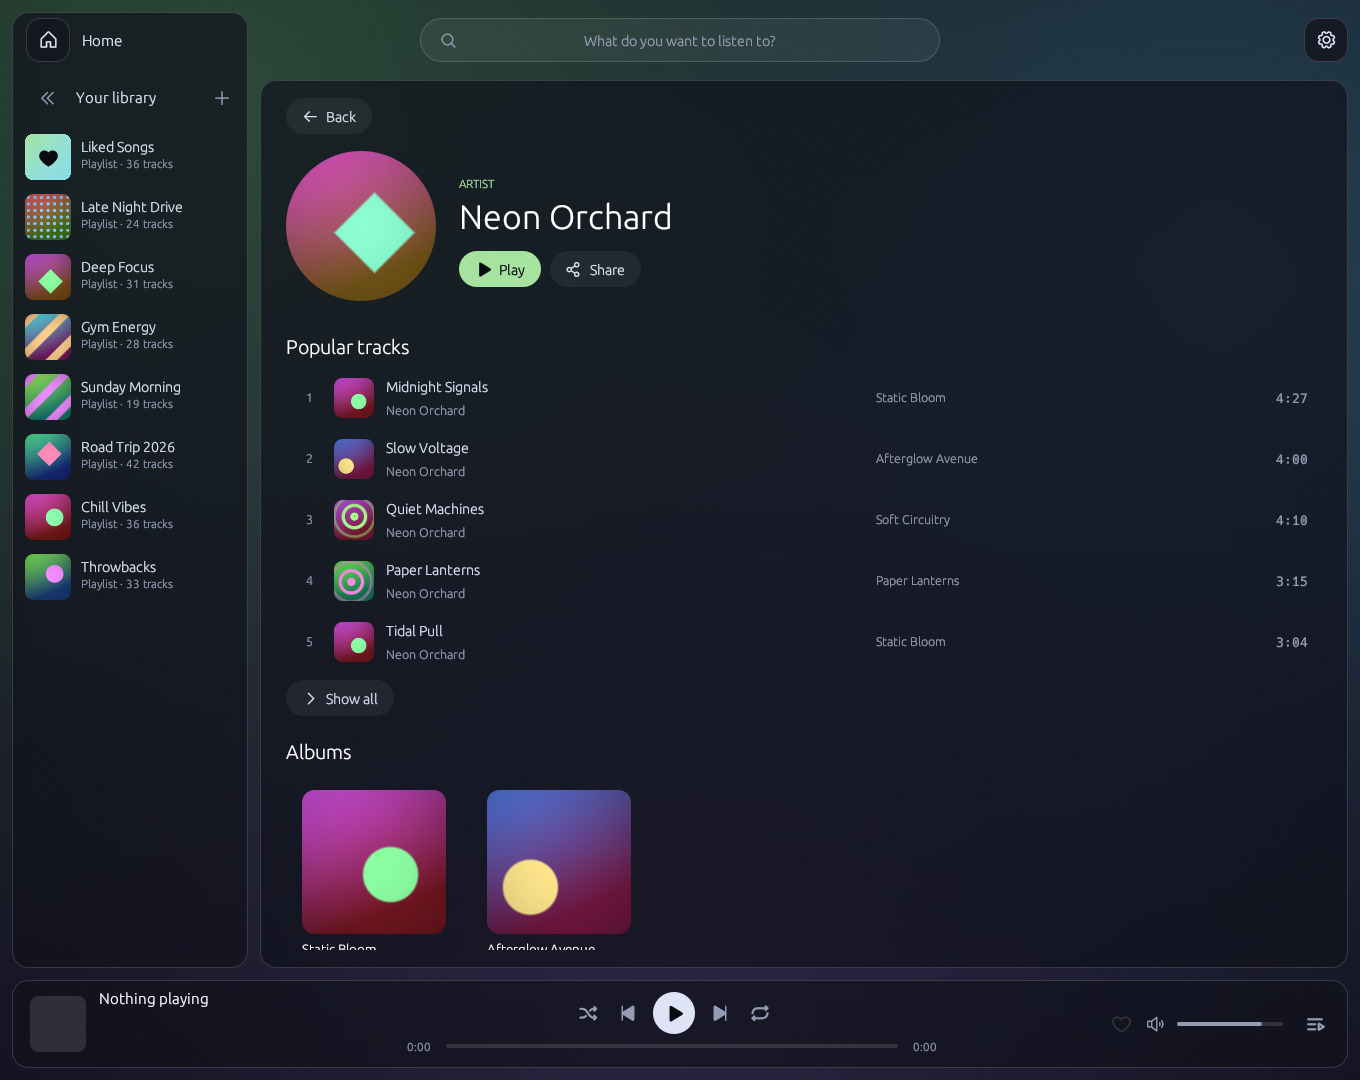
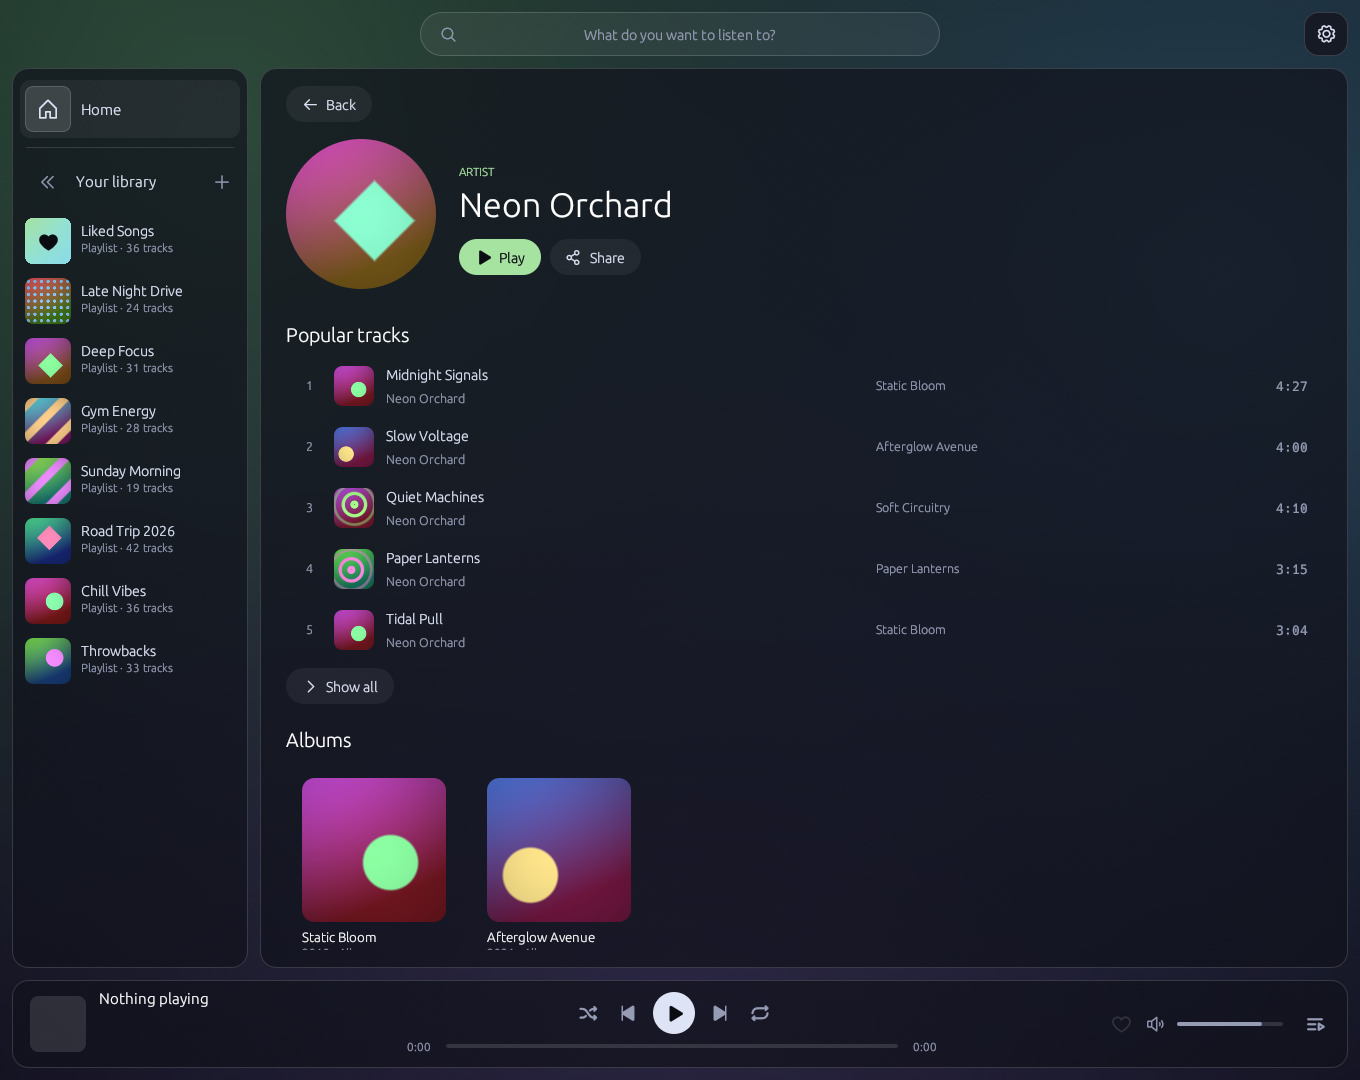
Undo the library reaching up to the header: home button back in the library, header at 44 px; new screenshots

diff --git a/src/app.rs b/src/app.rs
@@ -1704,8 +1704,8 @@ impl App {
         // Two equal rounded squares at the ends of the bar. The home button is only
         // up here in the full-screen player; otherwise it lives in the library.
         let size = egui::vec2(HEADER_HEIGHT, HEADER_HEIGHT);
-        let home_tile = egui::Rect::from_center_size(egui::pos2(rect.left() + size.x / 2.0, rect.center().y), size);
-        let settings_tile = egui::Rect::from_center_size(egui::pos2(rect.right() - size.x / 2.0, rect.center().y), size);
+        let home_tile = egui::Rect::from_min_size(rect.left_top(), size);
+        let settings_tile = egui::Rect::from_min_size(egui::pos2(rect.right() - size.x, rect.top()), size);
 
         if self.user.is_some() && full {
             let home = ui.interact(home_tile, egui::Id::new("home_button"), egui::Sense::click());
@@ -1721,13 +1721,8 @@ impl App {
         }
 
         // centre: search
-        let width = (ui.ctx().screen_rect().width() * 0.42).clamp(300.0, 520.0).min((rect.width() - 2.0 * (HEADER_HEIGHT + 24.0)).max(160.0));
-        // centred on the window when there is room, else squeezed between the buttons
-        let window_mid = ui.ctx().screen_rect().center().x;
-        let half = width / 2.0;
-        let mid_x = window_mid.clamp(rect.left() + half + 12.0, (rect.right() - HEADER_HEIGHT - 12.0 - half).max(rect.left() + half + 12.0));
-        let search_center = egui::pos2(mid_x, rect.center().y);
-        let center = egui::Rect::from_center_size(search_center, egui::vec2(width, rect.height()));
+        let width = (rect.width() * 0.42).clamp(300.0, 520.0);
+        let center = egui::Rect::from_center_size(rect.center(), egui::vec2(width, rect.height()));
         let mut mid = ui.new_child(
             egui::UiBuilder::new()
                 .max_rect(center)
@@ -1736,7 +1731,7 @@ impl App {
         // One capsule drawn by hand: egui's own frame is switched off, so the
         // field never shows a second outline when it gets focus.
         let search_id = egui::Id::new("search_field");
-        let field = egui::Rect::from_center_size(search_center, egui::vec2(width, HEADER_HEIGHT));
+        let field = egui::Rect::from_center_size(rect.center(), egui::vec2(width, HEADER_HEIGHT));
         let focused = mid.ctx().memory(|m| m.has_focus(search_id));
         let hovered = mid.rect_contains_pointer(field);
         let border = if focused {
@@ -1901,7 +1896,10 @@ impl App {
         if home_row(ui, at_home, t) {
             self.go_home();
         }
-        ui.add_space(10.0);
+        ui.add_space(2.0);
+        let (line, _) = ui.allocate_exact_size(egui::vec2(ui.available_width(), 1.0), egui::Sense::hover());
+        ui.painter().line_segment([line.left_center() + egui::vec2(6.0, 0.0), line.right_center() - egui::vec2(6.0, 0.0)], egui::Stroke::new(1.0_f32, ui::LINE));
+        ui.add_space(8.0);
 
         // One row of round buttons: the chevron always sits in the middle of the
         // collapsed width (under the home button); "New playlist" and the title
@@ -4415,9 +4413,9 @@ impl eframe::App for App {
             .show(ctx, |ui| {
                 let g = ui::GAP;
                 let screen = ui.max_rect();
-                let mut header = egui::Rect::from_min_max(
+                let header = egui::Rect::from_min_max(
                     screen.min + egui::vec2(g, g),
-                    egui::pos2(screen.right() - g, screen.top() + g + HEADER_BAND),
+                    egui::pos2(screen.right() - g, screen.top() + g + HEADER_HEIGHT),
                 );
                 let player = egui::Rect::from_min_max(
                     egui::pos2(screen.left() + g, screen.bottom() - g - PLAYER_HEIGHT),
@@ -4429,10 +4427,12 @@ impl eframe::App for App {
                     egui::pos2(screen.right() - g, bottom),
                 );
 
-                // The library reaches up to the top of the window: its home button sits where
-                // the header's left end is in the full-screen player, and the header (search,
-                // settings) uses the space to its right.
-                let mut library = None;
+                section(ui, "header", header, None, egui::Vec2::ZERO, |ui| self.header(ui, full));
+                if show_player {
+                    section(ui, "player", player, Some(ui::panel()), egui::vec2(18.0, 10.0), |ui| {
+                        self.player_bar(ui)
+                    });
+                }
                 if logged_in && !full {
                     let t = ui.ctx().animate_bool_with_time_and_easing(
                         egui::Id::new("library_open"),
@@ -4442,20 +4442,9 @@ impl eframe::App for App {
                     );
                     self.sidebar_t = t;
                     let width = LIBRARY_COLLAPSED + (LIBRARY_EXPANDED - LIBRARY_COLLAPSED) * t;
-                    let side = egui::Rect::from_min_max(header.min, egui::pos2(header.left() + width, bottom));
+                    let side = egui::Rect::from_min_size(body.min, egui::vec2(width, body.height()));
+                    section(ui, "library", side, Some(ui::panel()), egui::vec2(8.0, 12.0), |ui| self.library(ui));
                     body.min.x = side.right() + g;
-                    header.min.x = side.right() + g;
-                    library = Some(side);
-                }
-
-                section(ui, "header", header, None, egui::Vec2::ZERO, |ui| self.header(ui, full));
-                if show_player {
-                    section(ui, "player", player, Some(ui::panel()), egui::vec2(18.0, 10.0), |ui| {
-                        self.player_bar(ui)
-                    });
-                }
-                if let Some(side) = library {
-                    section(ui, "library", side, Some(ui::panel()), egui::vec2(8.0, 6.0), |ui| self.library(ui));
                 }
                 if logged_in && self.queue_open && !full {
                     let queue = egui::Rect::from_min_max(egui::pos2(body.right() - QUEUE_WIDTH, body.top()), body.max);
@@ -4515,9 +4504,6 @@ impl eframe::App for App {
 const PLAYER_HEIGHT: f32 = 88.0;
 /// Height of the search capsule and the round header buttons.
 const HEADER_HEIGHT: f32 = 44.0;
-/// The header row: the buttons and the search capsule sit in the middle of it, and the
-/// library's home button below the same line.
-const HEADER_BAND: f32 = 56.0;
 /// Library width with covers only, and with names.
 const LIBRARY_COLLAPSED: f32 = 72.0;
 const LIBRARY_EXPANDED: f32 = 236.0;
@@ -5347,24 +5333,31 @@ fn top_tile(
     ui::paint_icon(painter, tile.center(), icon, size, color, family);
 }
 
-/// The home entry at the top of the library: the same square tile as the header's home button
-/// in the full-screen player, with its name next to it when the library is open.
+/// The home entry at the top of the library: a tile like the covers below it, with its name when open.
 fn home_row(ui: &mut egui::Ui, active: bool, reveal: f32) -> bool {
-    let (rect, resp) = ui.allocate_exact_size(egui::vec2(ui.available_width(), HEADER_HEIGHT), egui::Sense::click());
+    let (rect, resp) = ui.allocate_exact_size(egui::vec2(ui.available_width(), 58.0), egui::Sense::click());
     pointer_on_hover(&resp);
     let resp = if reveal < 0.5 { resp.on_hover_text("Home") } else { resp };
-    let tile_x = ((LIBRARY_COLLAPSED - 16.0 - HEADER_HEIGHT) * 0.5).floor();
-    let tile = egui::Rect::from_min_size(rect.min + egui::vec2(tile_x, 0.0), egui::vec2(HEADER_HEIGHT, HEADER_HEIGHT));
     let hovered = ui.rect_contains_pointer(rect);
+    if active {
+        ui.painter().rect_filled(rect, 10.0, CARD_HOVER);
+    } else if hovered {
+        ui.painter().rect_filled(rect, 10.0, CARD);
+    }
+    let art_x = ((LIBRARY_COLLAPSED - 16.0 - 46.0) * 0.5).floor();
+    let art = egui::Rect::from_min_size(rect.min + egui::vec2(art_x, 6.0), egui::vec2(46.0, 46.0));
+    let fill = if active { ui::with_alpha(accent(), 46) } else { CARD_HOVER };
+    ui.painter().rect_filled(art, 8.0, fill);
+    ui.painter().rect_stroke(art, 8.0, egui::Stroke::new(1.0_f32, if active { ui::with_alpha(accent(), 140) } else { ui::EDGE }), egui::StrokeKind::Inside);
     let (color, family) = if active { (accent(), ui::fill_family()) } else { (ui::TEXT, egui::FontFamily::Proportional) };
-    top_tile(ui, tile, hovered, active, icons::HOUSE, 21.0, color, family);
+    ui::paint_icon(ui.painter(), art.center(), icons::HOUSE, 24.0, color, family);
     if reveal > 0.05 {
         let fade = ui::with_alpha(if active { accent() } else { ui::TEXT }, (reveal.clamp(0.0, 1.0) * 255.0) as u8);
         ui.painter().text(
-            egui::pos2(tile.right() + 12.0, rect.center().y),
+            egui::pos2(art.right() + 10.0, rect.center().y),
             egui::Align2::LEFT_CENTER,
             "Home",
-            egui::FontId::proportional(15.5),
+            egui::FontId::proportional(15.0),
             fade,
         );
     }
